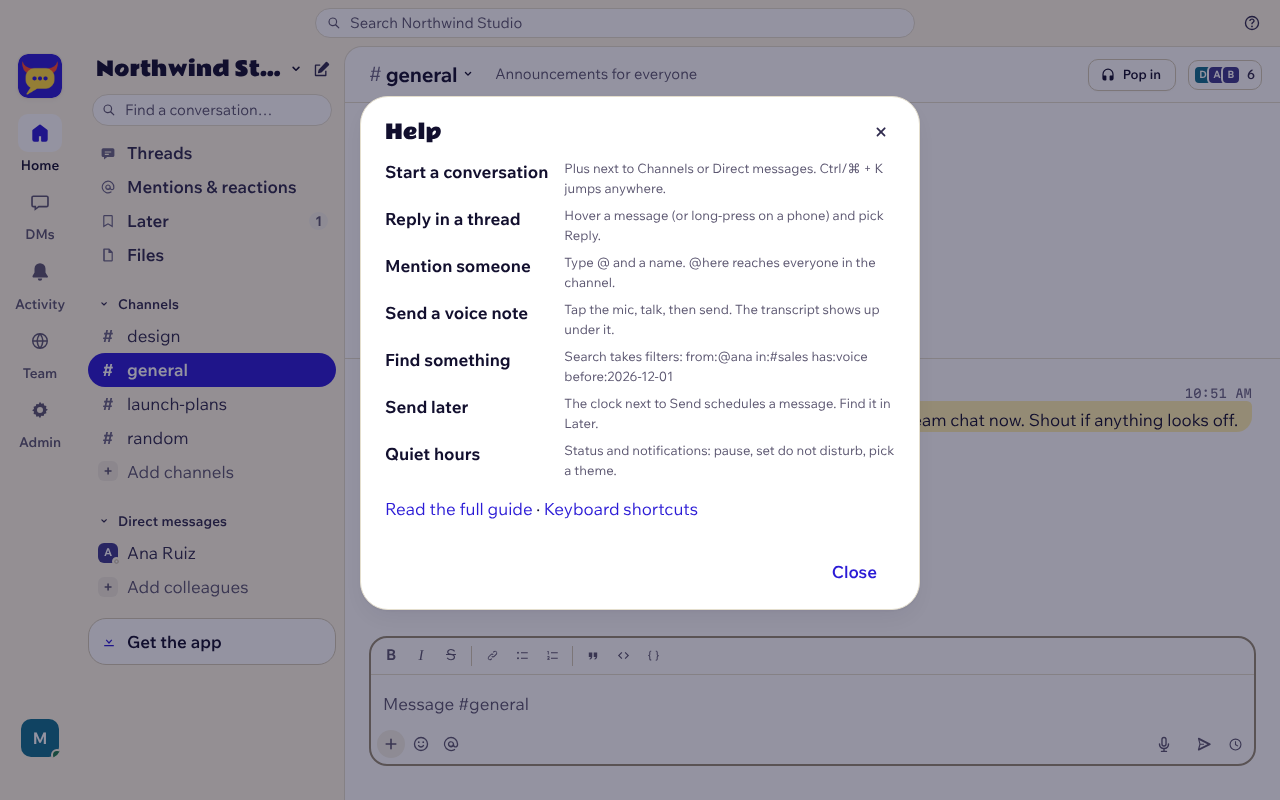
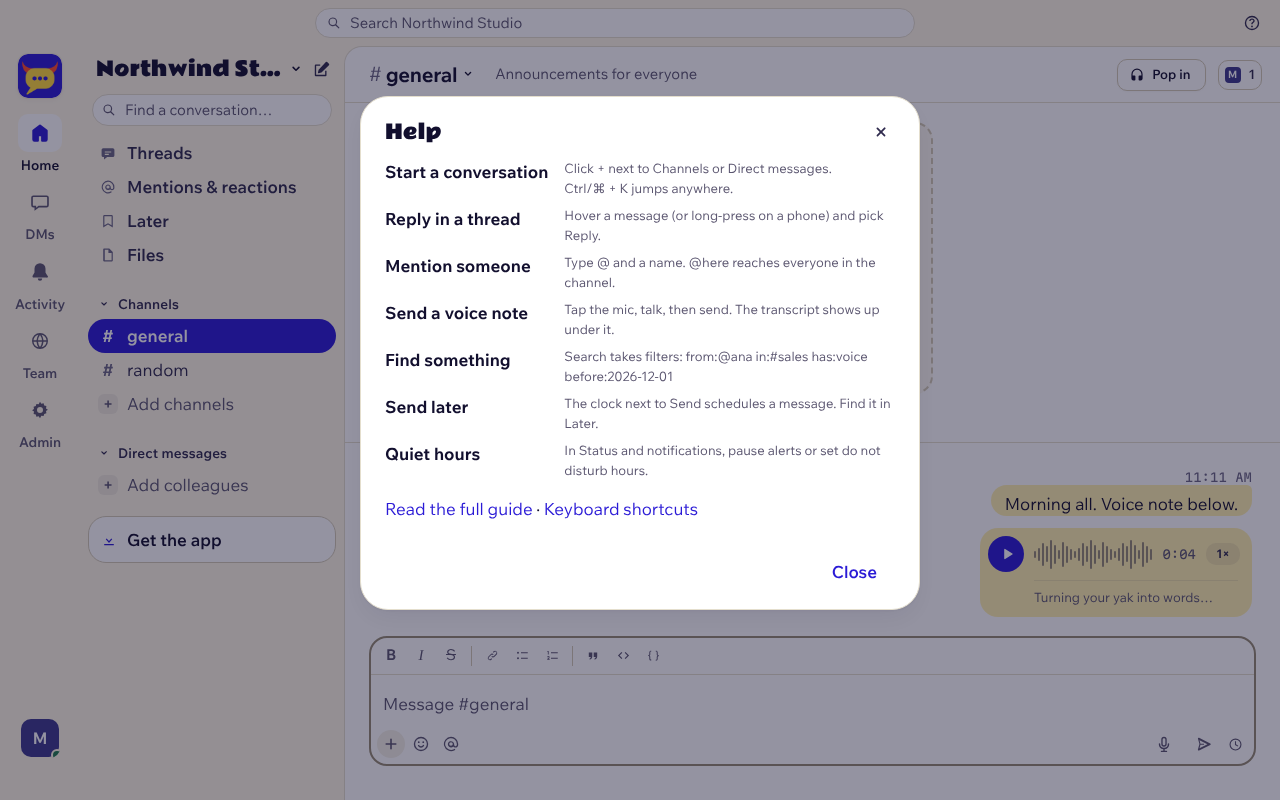
Skills pass: labelled password form, usage meters, help copy, rollback and restore steps, cron test
- Password change is a real form: visible labels, Enter submits, password managers pair it with
  the account, focus goes to the field the error is about, empty error message fixed
- Usage card: sans numbers with tabular figures, aria-valuetext, "nearly full" over 90%
- Help: verb-first copy, Ctrl/⌘ + K kept on one line; guide help screenshot retaken
- Clearer 429 messages; dead hashPassword branch and vn-wait class removed
- SETUP: back up before updating, smoke test, wrangler rollback, Time Travel restore,
  "Too many tries" entry; README: limits, rollback, cron row, no prose semicolons
- Unit test: cron sends at most 3 due messages per tick

Claude-Session: https://claude.ai/code/session_01VNXtSaKPNkohvnUFWfrEKc

diff --git a/public/app.js b/public/app.js
@@ -657,11 +657,11 @@ function makePlayer(f) {
       } else if (nf.t === 'done') {
         tBox.replaceChildren(h('div', { class: 'vn-muted' }, 'No speech heard'));
       } else if (nf.t === 'failed') {
-        tBox.replaceChildren(h('div', { class: 'vn-muted' }, 'No transcript yet. ', h('button', { class: 'vn-link', onclick: (e) => { e.target.disabled = true; tBox.replaceChildren(h('div', { class: 'vn-muted vn-wait' }, 'Turning your yak into words…')); last = null; api('/api/voice/transcribe', { method: 'POST', body: { key: nf.key, retry: true } }).catch((er) => toast(er.message)); } }, 'Try again')));
+        tBox.replaceChildren(h('div', { class: 'vn-muted' }, 'No transcript yet. ', h('button', { class: 'vn-link', onclick: (e) => { e.target.disabled = true; tBox.replaceChildren(h('div', { class: 'vn-muted' }, 'Turning your yak into words…')); last = null; api('/api/voice/transcribe', { method: 'POST', body: { key: nf.key, retry: true } }).catch((er) => toast(er.message)); } }, 'Try again')));
       } else if (nf.t === 'later') {
         tBox.replaceChildren(h('div', { class: 'vn-muted' }, 'The transcript comes tomorrow. Today\'s free transcribing time is used up.'));
       } else {
-        tBox.replaceChildren(h('div', { class: 'vn-muted vn-wait' }, 'Turning your yak into words…'));
+        tBox.replaceChildren(h('div', { class: 'vn-muted' }, 'Turning your yak into words…'));
       }
     },
   };
@@ -1889,9 +1889,10 @@ function renderAdmin() {
     kpi(counts.active || 0, 'Signed in'), kpi((counts.invited || 0), 'Invites waiting'), kpi(counts.not_invited || 0, 'Not invited yet'),
     kpi((st.messages || 0).toLocaleString(), 'Messages'), kpi((st.messages_7d || 0).toLocaleString(), 'Messages this week'));
   // Usage today against Cloudflare's free plan. Rough: requests and database reads are only in the Cloudflare dashboard.
-  const gb = (b) => (b < 1024 ** 3 ? Math.ceil(b / 1024 ** 2) + ' MB' : (b / 1024 ** 3).toFixed(1) + ' GB');
-  const meter = (label, used, max, text) => h('div', { class: 'use-row' }, h('div', { class: 'use-top' }, h('span', {}, label), h('span', { class: 'use-num' }, text)),
-    h('div', { class: 'use-bar', role: 'meter', 'aria-label': label, 'aria-valuemin': 0, 'aria-valuemax': max, 'aria-valuenow': Math.min(used, max) }, h('i', { style: { width: Math.min(100, (used / max) * 100 || 0) + '%' } })));
+  const gb = (b) => (b < 1024 ** 3 ? Math.ceil(b / 1024 ** 2) + '\u00a0MB' : (b / 1024 ** 3).toFixed(1) + '\u00a0GB');
+  // Over 90%: the bar turns warning orange and the numbers say "nearly full", so it's never color alone.
+  const meter = (label, used, max, text) => { const hot = used / max > 0.9; if (hot) text += ', nearly full'; return h('div', { class: 'use-row' + (hot ? ' hot' : '') }, h('div', { class: 'use-top' }, h('span', {}, label), h('span', { class: 'use-num' }, text)),
+    h('div', { class: 'use-bar', role: 'meter', 'aria-label': label, 'aria-valuemin': 0, 'aria-valuemax': max, 'aria-valuenow': Math.min(used, max), 'aria-valuetext': text }, h('i', { style: { width: Math.min(100, (used / max) * 100 || 0) + '%' } }))); };
   const usage = h('section', { class: 'card usage' }, h('h3', {}, 'Usage'),
     meter('File storage', st.storage || 0, st.storage_limit || 1, `${gb(st.storage || 0)} of ${gb(st.storage_limit || 0)}`),
     meter('Voice transcripts today', st.voice_secs_today || 0, st.voice_free_secs || 1, `${Math.round((st.voice_secs_today || 0) / 60)} of about ${Math.round((st.voice_free_secs || 0) / 60)} free minutes`),
@@ -2126,13 +2127,13 @@ const isStandalone = () => matchMedia('(display-mode: standalone)').matches || n
 const GUIDE_URL = 'https://github.com/yakyard/yakyard/blob/main/docs/GUIDE.md';
 function openHelp() {
   const tips = [
-    ['Start a conversation', 'Plus next to Channels or Direct messages. Ctrl/⌘ + K jumps anywhere.'],
+    ['Start a conversation', 'Click + next to Channels or Direct messages. Ctrl\u2060/\u2060⌘\u00a0+\u00a0K jumps anywhere.'],
     ['Reply in a thread', 'Hover a message (or long-press on a phone) and pick Reply.'],
     ['Mention someone', 'Type @ and a name. @here reaches everyone in the channel.'],
     ['Send a voice note', 'Tap the mic, talk, then send. The transcript shows up under it.'],
     ['Find something', 'Search takes filters: from:@ana in:#sales has:voice before:2026-12-01'],
     ['Send later', 'The clock next to Send schedules a message. Find it in Later.'],
-    ['Quiet hours', 'Status and notifications: pause, set do not disturb, pick a theme.'],
+    ['Quiet hours', 'In Status and notifications, pause alerts or set do not disturb hours.'],
   ];
   modal('Help', h('div', { class: 'help' },
     h('dl', {}, ...tips.flatMap(([t, d]) => [h('dt', {}, t), h('dd', {}, d)])),
@@ -2867,10 +2868,13 @@ async function openFiles(channelId = '', type = '', q = '', mine = false) {
 // ---------- preferences: status, notifications, do not disturb
 // Change password. The browser does the slow stretching (public/auth.js), the server stores a quick hash of it.
 function passwordSection(section) {
-  const cur = h('input', { class: 'input', type: 'password', autocomplete: 'current-password', 'aria-label': 'Current password', placeholder: 'Current password' });
-  const nw = h('input', { class: 'input', type: 'password', autocomplete: 'new-password', minlength: 10, 'aria-label': 'New password', placeholder: 'New password, at least 10 characters' });
+  const cur = h('input', { class: 'input', type: 'password', name: 'current', autocomplete: 'current-password', required: true });
+  const nw = h('input', { class: 'input', type: 'password', name: 'new', autocomplete: 'new-password', minlength: 10, required: true });
   const msg = h('p', { class: 'login-error', role: 'alert', hidden: true });
-  const btn = h('button', { class: 'btn primary sm', onclick: async () => {
+  const btn = h('button', { class: 'btn primary sm', type: 'submit' }, 'Change password');
+  // A real form: Enter submits, and password managers see the account (hidden username) and save the new password.
+  const form = h('form', { class: 'pw-form', onsubmit: async (e) => {
+    e.preventDefault();
     msg.hidden = true;
     if (nw.value.length < 10) { msg.textContent = 'Pick a new password of at least 10 characters.'; msg.hidden = false; nw.focus(); return; }
     btn.disabled = true; btn.textContent = 'One moment…';
@@ -2878,10 +2882,12 @@ function passwordSection(section) {
       const k = window.yyKdf, s = await k.saltOf(S.me.email), salt = k.newSalt();
       await api('/api/me/password', { method: 'POST', body: { key: await k.derive(cur.value, s.salt, s.iter), ...(s.legacy ? { password: cur.value } : {}), new_key: await k.derive(nw.value, salt), new_salt: salt, len: nw.value.length } });
       cur.value = nw.value = ''; toast('Password changed. You were signed out on your other devices.');
-    } catch (e) { msg.textContent = e.message; msg.hidden = false; }
+    } catch (e) { msg.textContent = e.message || "Can't reach your server. Try again."; msg.hidden = false; (/current/.test(msg.textContent) ? cur : nw).focus(); }
     btn.disabled = false; btn.textContent = 'Change password';
-  } }, 'Change password');
-  return section('Password', 'Changing it signs you out everywhere else.', h('div', { class: 'pw-row' }, cur, nw), msg, h('div', { class: 'pref-btns' }, btn));
+  } },
+    h('input', { type: 'email', name: 'username', autocomplete: 'username', value: S.me.email, hidden: true, readonly: true }),
+    h('div', { class: 'pw-row' }, h('label', {}, 'Current password', cur), h('label', {}, 'New password, at least 10 characters', nw)), msg, h('div', { class: 'pref-btns' }, btn));
+  return section('Password', 'Changing it signs you out everywhere else.', form);
 }
 async function openPrefs() {
   const list = pageShell('prefs', 'Status and notifications', 'How and when Yakyard gets your attention.');

diff --git a/src/worker.js b/src/worker.js
@@ -212,11 +212,10 @@ const unb64 = (t) => Uint8Array.from(atob(t), (c) => c.charCodeAt(0));
 // SHA-256(salt + key), marked "c1:". Older rows (server-side PBKDF2, 100,000 rounds, no marker)
 // are upgraded on the next sign-in that sends the password once more.
 const KDF_ITER = 600000;
+// Old accounts only: the server-side hash from before the browser did the stretching.
 async function hashPassword(password, saltB64) {
-  const salt = saltB64 ? unb64(saltB64) : crypto.getRandomValues(new Uint8Array(16));
   const key = await crypto.subtle.importKey('raw', new TextEncoder().encode(password), 'PBKDF2', false, ['deriveBits']);
-  const bits = await crypto.subtle.deriveBits({ name: 'PBKDF2', hash: 'SHA-256', salt, iterations: 100000 }, key, 256);
-  return { hash: b64(bits), salt: b64(salt) };
+  return b64(await crypto.subtle.deriveBits({ name: 'PBKDF2', hash: 'SHA-256', salt: unb64(saltB64), iterations: 100000 }, key, 256));
 }
 const goodB64 = (t, n) => { try { return typeof t === 'string' && t.length < 64 && unb64(t).length === n; } catch { return false; } };
 async function keyHash(key, saltB64) {
@@ -229,7 +228,7 @@ async function checkKey(row, key, password) {
   if (!row || !goodB64(key, 32)) { await keyHash(goodB64(key, 32) ? key : 'A'.repeat(43) + '=', 'AAAAAAAAAAAAAAAAAAAAAA=='); if (password) await hashPassword(password, 'AAAAAAAAAAAAAAAAAAAAAA=='); return { ok: false }; }
   if (row.hash.startsWith('c1:')) return { ok: sameText(await keyHash(key, row.salt), row.hash) };
   if (!password) return { ok: false };
-  const ok = sameText((await hashPassword(password, row.salt)).hash, row.hash);
+  const ok = sameText(await hashPassword(password, row.salt), row.hash);
   return { ok, upgrade: ok ? await keyHash(key, row.salt) : null };
 }
 // One random server secret, made on first use, so unknown emails get a stable fake salt.
@@ -249,7 +248,7 @@ async function hmac(keyBytes, text) {
 // the response time doesn't either.
 async function saltFor(req, env) {
   const email = String((await req.json().catch(() => ({}))).email || '').toLowerCase().trim().slice(0, 200);
-  if ((await bump(env, 'salt:' + clientIp(req))) > 100) return json({ error: 'Too many tries. Wait 15 minutes.' }, 429);
+  if ((await bump(env, 'salt:' + clientIp(req))) > 100) return json({ error: 'Too many sign-in tries from this network. Wait 15 minutes.' }, 429);
   const [row, anyOld] = await Promise.all([
     env.DB.prepare('SELECT c.hash, c.salt FROM users u JOIN credentials c ON c.user_id=u.id WHERE u.email=? AND u.active=1').bind(email).first(),
     env.DB.prepare("SELECT 1 FROM credentials WHERE hash NOT LIKE 'c1:%' LIMIT 1").first(),
@@ -846,7 +845,7 @@ async function api(req, env, user, path, ctx) {
   if (path === '/api/me/password' && method === 'POST') {
     const row = await env.DB.prepare('SELECT hash, salt FROM credentials WHERE user_id=?').bind(user.id).first();
     if (!row) return err(400, 'You sign in with Google, so there is no password to change.');
-    if ((await bump(env, 'pw:' + user.id)) > 10) return err(429, 'Too many tries. Wait 15 minutes.');
+    if ((await bump(env, 'pw:' + user.id)) > 10) return err(429, 'Too many tries. Wait 15 minutes, then try again.');
     const { ok } = await checkKey(row, String(body.key || ''), String(body.password || ''));
     if (!ok) return err(400, "That's not your current password.");
     const nk = newKey(new Map([['key', body.new_key], ['salt', body.new_salt], ['len', body.len]]));
@@ -1196,6 +1195,7 @@ async function serveFile(req, env, key) {
 export default {
   // One heavy job per tick, so a tick stays under the free plan's 10 ms CPU: due messages and reminders
   // first; when none were due, a Slack import slice on even minutes and a transcript on odd ones.
+  // shortcut: a queue with something due every single minute holds imports and transcripts back; fine for a team, split into two crons if it ever matters.
   async scheduled(event, env, ctx) {
     if (await cronTick(env, ctx, postMessage)) return;
     if (new Date(event.scheduledTime).getUTCMinutes() % 2) await voiceCron(env, { hydrateMessages, broadcast, channelMembers }).catch((e) => console.log('voice cron', e));

diff --git a/public/app.css b/public/app.css
@@ -887,7 +887,8 @@ body.bubbles .msg.is-saved, body.bubbles .msg.is-pinned { background: transparen
 .pref-btns { display: flex; gap: 8px; flex-wrap: wrap; }
 .status-row { display: flex; gap: 8px; align-items: center; }
 .pw-row { display: flex; gap: var(--space-2); flex-wrap: wrap; }
-.pw-row .input { flex: 1 1 220px; }
+.pw-form .pref-btns { margin-top: var(--space-3); }
+.pw-row label { flex: 1 1 220px; display: grid; gap: var(--space-1); font-size: var(--fs-sm); font-weight: 600; color: var(--ink-2); }
 .status-row .input { flex: 1; }
 .status-row select.input { flex: 0 0 150px; }
 .emo-btn { width: 40px; height: 40px; border-radius: var(--radius-sm); border: 1px solid var(--line-2); font-size: var(--fs-sticker); flex: none; }
@@ -1619,7 +1620,9 @@ button { touch-action: manipulation; }
 .usage { margin: var(--space-4) 0; padding: var(--space-4); display: grid; gap: var(--space-3); }
 .usage h3 { margin: 0; }
 .use-top { display: flex; justify-content: space-between; gap: var(--space-2); font-size: var(--fs-sm); }
-.use-num { font-family: var(--font-mono); color: var(--ink-3); }
+.use-num { color: var(--ink-3); font-variant-numeric: tabular-nums; text-align: right; }
+.use-row.hot .use-bar i { background: var(--warning); }
+.use-row.hot .use-num { color: var(--warning); font-weight: 600; }
 .use-bar { height: 8px; border-radius: var(--radius-pill); background: var(--line); overflow: hidden; margin-top: var(--space-1); }
 .use-bar i { display: block; height: 100%; background: var(--accent); }
 .use-note { margin: 0; color: var(--ink-3); font-size: var(--fs-sm); }

diff --git a/README.md b/README.md
@@ -23,7 +23,7 @@ Team chat gets expensive fast, and your company history ends up on someone else'
 
 **Talking**
 - Channels (public and private), threads, direct and group messages
-- Rich message box: bold, italic, lists, quotes, code, links. No markdown typing needed
+- Rich message box: bold, italic, lists, quotes, code and links from buttons or shortcuts, so nobody has to type markdown
 - Emoji picker with search and skin tones. Reactions, with "who reacted" cards
 - Files, photos and videos up to 1 GB, with link previews
 - Edit, delete, pin, save for later, reminders, scheduled send
@@ -76,12 +76,12 @@ Yakyard is built to fit Cloudflare's free plan with zero paid features turned on
 | Sign-in of an account made before this version | 18 ms, once | The old server-side hash (100,000 rounds) runs one last time, then the account moves to the new kind. If it fails with error 1102 on the free plan, send that person a new link. |
 | Unknown email at sign-in | 0.05 ms | Same work as a real account, so the reply doesn't reveal who has one. |
 | Opening a conversation (50 messages) | 0.05 ms | Database time doesn't count as CPU. |
-| One phone notification | 1.5 ms | Encryption and signing. Two go out right away; the rest go out four at a time from the hub (a Durable Object alarm), so a message to 30 people never piles up in one request. |
+| One phone notification | 1.5 ms | Encryption and signing. Two go out right away. The rest go out four at a time from the hub (a Durable Object alarm), so a message to 30 people never piles up in one request. |
 | Slack import, one page of 50 messages | 2 ms | The background job runs once a minute and does one heavy thing per run: up to 3 due messages or reminders, else an import run (3 pages, 150 messages) or a transcript, in turn. So an import moves about 75 messages a minute. |
 | Voice note to transcript, per minute of audio | under 1 ms | Native base64. One transcript every other minute from the background job. |
-| Link previews and outside pictures | small | Page parsing is native (HTMLRewriter), capped at 512 KB; pictures are streamed, 5 MB max. |
+| Link previews and outside pictures | small | Page parsing is native (HTMLRewriter), capped at 512 KB. Pictures are streamed, 5 MB max. |
 
-Calls (Pop in) go browser to browser; the server only relays the short setup messages.
+Calls (Pop in) go browser to browser. The server only relays the short setup messages.
 
 **How many people.** Rough daily numbers for one active person: 40 messages sent, 150 conversations opened, 5 app opens.
 
@@ -97,14 +97,14 @@ Calls (Pop in) go browser to browser; the server only relays the short setup mes
 The tightest line is about 245 people. Real teams are bursty and some people are heavy users, so plan on a fifth of that: **up to about 50 people**, comfortably. The first things a busy team feels are voice transcripts (about 4 minutes per person a day for 50 people) and photo previews (5,000 a month).
 
 **When something runs out, nothing breaks:**
-- Voice transcripts: notes still send and play; the transcript says it comes tomorrow and the background job fills it in after midnight UTC.
+- Voice transcripts: notes still send and play. The transcript says it comes tomorrow and the background job fills it in after midnight UTC.
 - Photo previews: photos show at full size for an hour, then Yakyard tries again.
 - Database: pages and the app show "Your team used up today's free database allowance" instead of an error page, until midnight UTC.
 - File storage: uploads stop with a clear message at 2 GB per person or 9 GB for the team. Change both with `STORAGE_PER_PERSON_GB` and `STORAGE_TOTAL_GB`.
 
 Admins see storage and today's voice minutes on the **Usage** card in Admin. Requests and database use are in the Cloudflare dashboard.
 
-**When to pay $5 a month (Workers Paid).** More than about 50 busy people, more than about 3 hours of voice notes a day, or if you see "free database allowance" or error 1102 more than once. Upgrade in the Cloudflare dashboard; nothing in Yakyard changes.
+**When to pay $5 a month (Workers Paid).** More than about 50 busy people, more than about 3 hours of voice notes a day, or if you see "free database allowance" or error 1102 more than once. Upgrade in the Cloudflare dashboard. Nothing in Yakyard changes.
 
 ## Try it on your computer first
 
@@ -161,7 +161,7 @@ On iPhone, people add Yakyard to the Home Screen first (Share, Add to Home Scree
 |---|---|
 | Sign in with Google | Create an OAuth client in Google Cloud (redirect `https://YOUR-URL/auth/callback`). Set `GOOGLE_CLIENT_ID`, `GOOGLE_ENABLED = "1"`, secret `GOOGLE_CLIENT_SECRET`. `ALLOWED_DOMAINS` lets anyone with your company email in. |
 | Calls on strict networks | Create a TURN key in Cloudflare Realtime. Secrets `TURN_KEY_ID` and `TURN_KEY_TOKEN`. |
-| Slack import | Create a Slack app with user scopes `channels:read groups:history groups:read im:history im:read mpim:history mpim:read users:read users:read.email files:read reactions:read`, redirect `https://YOUR-URL/slack/callback`. Set `SLACK_CLIENT_ID` and `SLACK_TEAM_ID` (your Slack workspace id, starts with `T`), secrets `SLACK_CLIENT_SECRET` and `TOKEN_KEY`. `TOKEN_KEY` must be exactly 32 random bytes written as base64: make one with `openssl rand -base64 32` and paste the whole line into `npx wrangler secret put TOKEN_KEY`. Instead of the `SLACK_CLIENT_SECRET` secret, the owner can paste the Client Secret on the import page; it is stored encrypted with `TOKEN_KEY`. Guests can't import. |
+| Slack import | Create a Slack app with user scopes `channels:read groups:history groups:read im:history im:read mpim:history mpim:read users:read users:read.email files:read reactions:read`, redirect `https://YOUR-URL/slack/callback`. Set `SLACK_CLIENT_ID` and `SLACK_TEAM_ID` (your Slack workspace id, starts with `T`), secrets `SLACK_CLIENT_SECRET` and `TOKEN_KEY`. `TOKEN_KEY` must be exactly 32 random bytes written as base64: make one with `openssl rand -base64 32` and paste the whole line into `npx wrangler secret put TOKEN_KEY`. Instead of the `SLACK_CLIENT_SECRET` secret, the owner can paste the Client Secret on the import page. It is stored encrypted with `TOKEN_KEY`. Guests can't import. |
 | Team clocks | `TEAM_LOCATION = "1"`. See "Team clocks and privacy". |
 | Weather on team clocks | `WEATHER = "1"` as well. See "Team clocks and privacy". |
 | Better transcripts | `VOICE_LANGUAGE` (e.g. `en`, `fr`, `es`) and `VOICE_HINT` with names and words to spell right. |
@@ -206,11 +206,13 @@ npm run deploy
 
 `npm run deploy` updates the database before the new code goes live (`scripts/migrate.mjs`): it adds any column an existing table is missing, then creates any new tables and indexes from `schema.sql`. Safe to run again and again. Compare `wrangler.toml.example` with your `wrangler.toml` for new settings, since your own file is never overwritten.
 
-Open apps show "New version of Yakyard" and update in one tap.
+Open apps show "New version of Yakyard" and update in one tap. If the new version misbehaves, `npx wrangler rollback` puts the previous one back. The database changes only add, so it keeps working (details in [SETUP.md](docs/SETUP.md#updates)).
 
 ## Sign-in throttling
 
-Sign-in allows 30 tries per network address and 25 per account in 15 minutes, from anywhere. That means someone who keeps guessing at one person's email can keep that person locked out of password sign-in for a while. Google sign-in and a new link from an admin still work. Admins can only send new links to people who never signed in; the owner can send one to anyone.
+Sign-in allows 30 tries per network address and 25 per account in 15 minutes, from anywhere. That means someone who keeps guessing at one person's email can keep that person locked out of password sign-in for a while. Google sign-in and a new link from an admin still work. Admins can only send new links to people who never signed in. The owner can send one to anyone.
+
+The step before sign-in (the browser asking for its password salt) allows 100 requests per address in 15 minutes. Changing a password allows 10 tries per person.
 
 ## Tests
 
@@ -229,6 +231,7 @@ No framework and no build step. Plain JavaScript in `public/app.js`, a Cloudflar
 | API, sign-in, files | `src/worker.js` |
 | Live updates, presence, calls signaling | `Hub` Durable Object in `src/worker.js` |
 | Push, status, search, reminders, scheduled send | `src/features.js` |
+| Once-a-minute job (one heavy task per run) | `scheduled()` in `src/worker.js`, `cronTick` in `src/features.js` |
 | Voice notes and transcripts | `src/voice.js` |
 | Slack import | `src/slackimport.js` |
 | Link previews | `src/unfurl.js` |

diff --git a/docs/SETUP.md b/docs/SETUP.md
@@ -146,12 +146,22 @@ Each person can copy their own Slack messages (DMs, group DMs, private channels)
 
 ## Updates
 
-When a new version comes out:
+When a new version comes out, first save a backup (see **Backups** below). Then:
 
 - **With Git:** in the Yakyard folder, type `git pull`, then `npm run deploy`.
 - **With the ZIP:** download the new ZIP, unzip it, copy your old `wrangler.toml` into the new folder, then run `npm run deploy` from the new folder.
 
+It worked when the last line says `Deployed version` and a number.
+
 `npm run deploy` also updates your database (new tables and columns) before the new version goes live. Open apps show **New version of Yakyard** and update in one tap.
+
+After an update, sign in, send a message and open a voice note. If something is broken, go back to the version before:
+
+```
+npx wrangler rollback
+```
+
+It asks which version to go back to. Pick the one just before. Database updates only add tables and columns, so the older version keeps working with them. You can also do this in the Cloudflare dashboard: **Workers & Pages**, your `yakyard` Worker, **Deployments**.
 
 ## Backups
 
@@ -163,7 +173,15 @@ To keep your own copy, type:
 npx wrangler d1 export DB --remote --output yakyard-backup.sql
 ```
 
-It saves a file called `yakyard-backup.sql` in the Yakyard folder. Do it once a month and keep the file somewhere safe. To bring the database back to an earlier moment, see Cloudflare's [Time Travel guide](https://developers.cloudflare.com/d1/reference/time-travel/).
+It saves a file called `yakyard-backup.sql` in the Yakyard folder. Open it in a text editor: it should start with lines like `CREATE TABLE`. Do it once a month, and before every update, and keep the file somewhere safe.
+
+To bring the database back to an earlier moment (last 7 days), type the date and time in UTC:
+
+```
+npx wrangler d1 time-travel restore DB --timestamp=2026-11-20T09:00:00.000+00:00
+```
+
+Messages and changes made after that moment disappear, so pick the latest time that was still fine. The command prints a bookmark: keep it, it brings them back if you picked the wrong time. More in Cloudflare's [Time Travel guide](https://developers.cloudflare.com/d1/reference/time-travel/).
 
 Files and voice notes stay in R2. Cloudflare stores them on several machines, so a lost file is very unlikely.
 
@@ -208,9 +226,11 @@ The README section **Free plan** has the full math. If Yakyard gets slow to answ
 
 **"Turn on JavaScript to sign in".** Yakyard stretches your password in the browser, so sign-in needs JavaScript. Turn it back on in the browser settings, or try another browser.
 
+**"Too many tries" or "Too many sign-in tries".** Someone typed a wrong password many times, or many people sign in from one office network at once. Wait 15 minutes. If it keeps happening, an admin can send the person a new link.
+
 **Someone forgot their password.** An owner or admin opens **Admin**, finds the person, clicks the three dots, then **Reset password (new link)**, and sends them the new link.
 
-**Error 1102 or "Worker exceeded CPU".** A single action needed more computer time than the free plan allows. Tell us what you were doing. Accounts made with an older Yakyard (before this version) can see it once at their first sign-in: send that person a new link from **Admin**.
+**Error 1102 or "Worker exceeded CPU".** A single action needed more computer time than the free plan allows. Run `npx wrangler tail`, do the same thing again, and copy the red lines when you ask for help. Accounts made with an older Yakyard (before this version) can see it once at their first sign-in: send that person a new link from **Admin**.
 
 **"Your team used up today's free database allowance".** Cloudflare's free database has a daily limit. It resets at midnight UTC. If it happens often, upgrade to Workers Paid ($5 a month).
 
